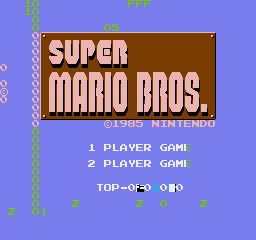
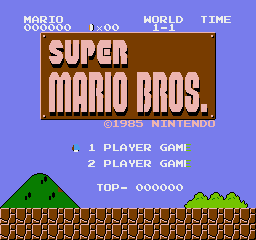
Fix CPU bugs. Update screenshots.

diff --git a/src/nes/ricoh2a03/instructions.rs b/src/nes/ricoh2a03/instructions.rs
@@ -350,7 +350,7 @@ macro_rules! st {
 macro_rules! stabx {
 	($cpu: expr, $reg: expr) => {
 		$cpu.tick();
-		let address = $cpu.absx().wrapping_add($cpu.x as u16);
+		let address = $cpu.abs().wrapping_add($cpu.x as u16);
 		let value = $reg;
 		$cpu.write8(address, value);
 	};
@@ -359,7 +359,7 @@ macro_rules! stabx {
 macro_rules! staby {
 	($cpu: expr, $reg: expr) => {
 		$cpu.tick();
-		let address = $cpu.absy().wrapping_add($cpu.y as u16);
+		let address = $cpu.abs().wrapping_add($cpu.y as u16);
 		let value = $reg;
 		$cpu.write8(address, value);
 	};
@@ -495,15 +495,15 @@ impl Ricoh2A03 {
 			0x6a => { mnemonic!("ROR A"); ror_a!(self); },
 			0x6c => { mnemonic!("JMP ind"); jmp_ind!(self); },
 			0x6d => { mnemonic!("ADC abs"); adc!(self, self.abs()); },
-			0x6e => { mnemonic!("ROR abs"); rol!(self, self.abs()); },
+			0x6e => { mnemonic!("ROR abs"); ror!(self, self.abs()); },
 			0x70 => { mnemonic!("BVS"); branch!(self, self.p.overflow, true); },
 			0x71 => { mnemonic!("ADC ind,y"); adc!(self, self.indy()); },
 			0x75 => { mnemonic!("ADC zp,x"); adc!(self, self.zpx()); },
-			0x76 => { mnemonic!("ROR zp,x"); rol!(self, self.zpx()); },
+			0x76 => { mnemonic!("ROR zp,x"); ror!(self, self.zpx()); },
 			0x78 => { mnemonic!("SEI"); flag!(self, self.p.interrupt, true); },
 			0x79 => { mnemonic!("ADC abs,y"); adc!(self, self.absy()); },
 			0x7d => { mnemonic!("ADC abs,x"); adc!(self, self.absx()); },
-			0x7e => { mnemonic!("ROR abs,x"); rol!(self, self._absx()); },
+			0x7e => { mnemonic!("ROR abs,x"); ror!(self, self._absx()); },
 			0x81 => { mnemonic!("STA ind,x"); st!(self, self.indx(), self.a); },
 			0x84 => { mnemonic!("STY zp"); st!(self, self.zp(), self.y); },
 			0x85 => { mnemonic!("STA zp"); st!(self, self.zp(), self.a); },
@@ -551,7 +551,7 @@ impl Ricoh2A03 {
 			0xc5 => { mnemonic!("CMP zp"); cmp!(self, self.zp(), self.a); },
 			0xc6 => { mnemonic!("DEC zp"); dec!(self, self.zp()); },
 			0xc8 => { mnemonic!("INY"); incr!(self, self.y); },
-			0xc9 => { mnemonic!("CMP imm"); cmp!(self, self.imm(), self.a); },
+			0xc9 => { mnemonic!("CMP #"); cmp!(self, self.imm(), self.a); },
 			0xca => { mnemonic!("DEX"); decr!(self, self.x); },
 			0xcc => { mnemonic!("CPY abs"); cmp!(self, self.abs(), self.y); },
 			0xcd => { mnemonic!("CMP abs"); cmp!(self, self.abs(), self.a); },

diff --git a/src/nes/ricoh2c02/mod.rs b/src/nes/ricoh2c02/mod.rs
@@ -99,7 +99,7 @@ impl Ricoh2C02 {
 
             palette: vec![0; 0x20].into_boxed_slice(),
 
-            scanline: -1,
+            scanline: 241,
             cycle: 0,
             odd: false,
 
@@ -194,11 +194,11 @@ impl Ricoh2C02 {
     //                if y >= 240 {
     //                    tile_address += 0x800;
     //                }
-    //                tile_address += (((y % 256) / 8) * 32) + ((x % 256) / 8);
+    //                tile_address += (((y % 240) / 8) * 32) + ((x % 256) / 8);
     //                let tile = self.vram_read(tile_address as u16);
     //                let pattern_address = self.bg_pattern_table + (tile as u16 * 0x10);
-    //                let tile_low = self.vram_read(pattern_address + ((y as u16 % 256) % 8));
-    //                let tile_high = self.vram_read(pattern_address + ((y as u16 % 256) % 8) + 8);
+    //                let tile_low = self.vram_read(pattern_address + (y as u16 % 8));
+    //                let tile_high = self.vram_read(pattern_address + (y as u16 % 8) + 8);
     //                let bit = (7 - (x % 8)) as u8;
     //                let mut colour_low = (tile_low & (1 << bit)) >> bit;
     //                let mut colour_high = (tile_high & (1 << bit)) >> bit;
@@ -715,7 +715,7 @@ impl Ricoh2C02 {
 
             if self.cycle == 328 || self.cycle == 336 {
                 if self.rendering_enabled() {
-                    for _ in 0..8 {   
+                    for _ in 0..8 {  
                         self.shift_registers();
                     }
 

diff --git a/src/nes/bus.rs b/src/nes/bus.rs
@@ -45,9 +45,9 @@ impl Bus {
             return self.ppu.io_read(0x2000 + (address % 8));
         }
 
-        if self.controller.in_range(address) {
-            self.controller.io_read();
-        }
+        //if self.controller.in_range(address) {
+        //    self.controller.io_read();
+        //}
 
         if self.mapper.in_range(address) {
             return self.mapper.read_prg(address);
@@ -91,9 +91,9 @@ impl Bus {
             return self.mapper.write_prg(address, value);
         }
 
-        if self.controller.in_range(address) {
-            self.controller.io_write(value);
-        }
+        //if self.controller.in_range(address) {
+        //    self.controller.io_write(value);
+        //}
 
         if address >= 0x4000 && address <= 0x4020 {
             return;

diff --git a/src/nes/ricoh2a03/mod.rs b/src/nes/ricoh2a03/mod.rs
@@ -26,7 +26,7 @@ pub struct Ricoh2A03 {
 
 impl Ricoh2A03 {
     pub fn new(bus: Bus) -> Ricoh2A03 {
-        let mut cpu = Ricoh2A03 {
+        Ricoh2A03 {
             pc: 0,
             a: 0,
             x: 0,
@@ -34,9 +34,10 @@ impl Ricoh2A03 {
             s: 0,
             p: Status::new(),
             bus: bus,
-        };
+        }
+    }
 
-        cpu.interrupt(InterruptType::RESET);
-        cpu
+    pub fn reset(&mut self) {
+        self.interrupt(InterruptType::RESET);
     }
 }

diff --git a/src/nes/ricoh2a03/addressing.rs b/src/nes/ricoh2a03/addressing.rs
@@ -17,10 +17,12 @@ impl Ricoh2A03 {
 	}
 
 	pub fn zpx(&mut self) -> u16 {
+		self.tick();
 		(self.zp().wrapping_add(self.x as u16)) % 0x100
 	}
 
 	pub fn zpy(&mut self) -> u16 {
+		self.tick();
 		(self.zp().wrapping_add(self.y as u16)) % 0x100
 	}
 
@@ -30,6 +32,7 @@ impl Ricoh2A03 {
 	}	
 
 	pub fn _absx(&mut self) -> u16 {
+		self.tick();
 		let a = self.abs();
 		let x = self.x as u16;
 		a.wrapping_add(x)

diff --git a/src/nes/ricoh2a03/functions.rs b/src/nes/ricoh2a03/functions.rs
@@ -49,7 +49,6 @@ impl Ricoh2A03 {
     }
 
     pub fn read16_d(&mut self, address1: u16, address2: u16) -> u16 {
-        self.tick();
         (self.read8(address1) as u16) | ((self.read8(address2) as u16) << 8)
     }
 
@@ -83,6 +82,7 @@ impl Ricoh2A03 {
 	}
 
     pub fn write8(&mut self, address: u16, value: u8) {
+		self.tick();
         self.bus.write(address, value)
     }
 }

diff --git a/src/main.rs b/src/main.rs
@@ -25,6 +25,7 @@ fn main() {
 	let ppu = Ricoh2C02::new(mapper);
 	let bus = Bus::new(ppu_mapper, ppu);
 	let mut cpu = Ricoh2A03::new(bus);
+	cpu.reset();
 
 	let sdl_context = sdl2::init().unwrap();
 	let mut sdl_event = sdl_context.event_pump().unwrap();
